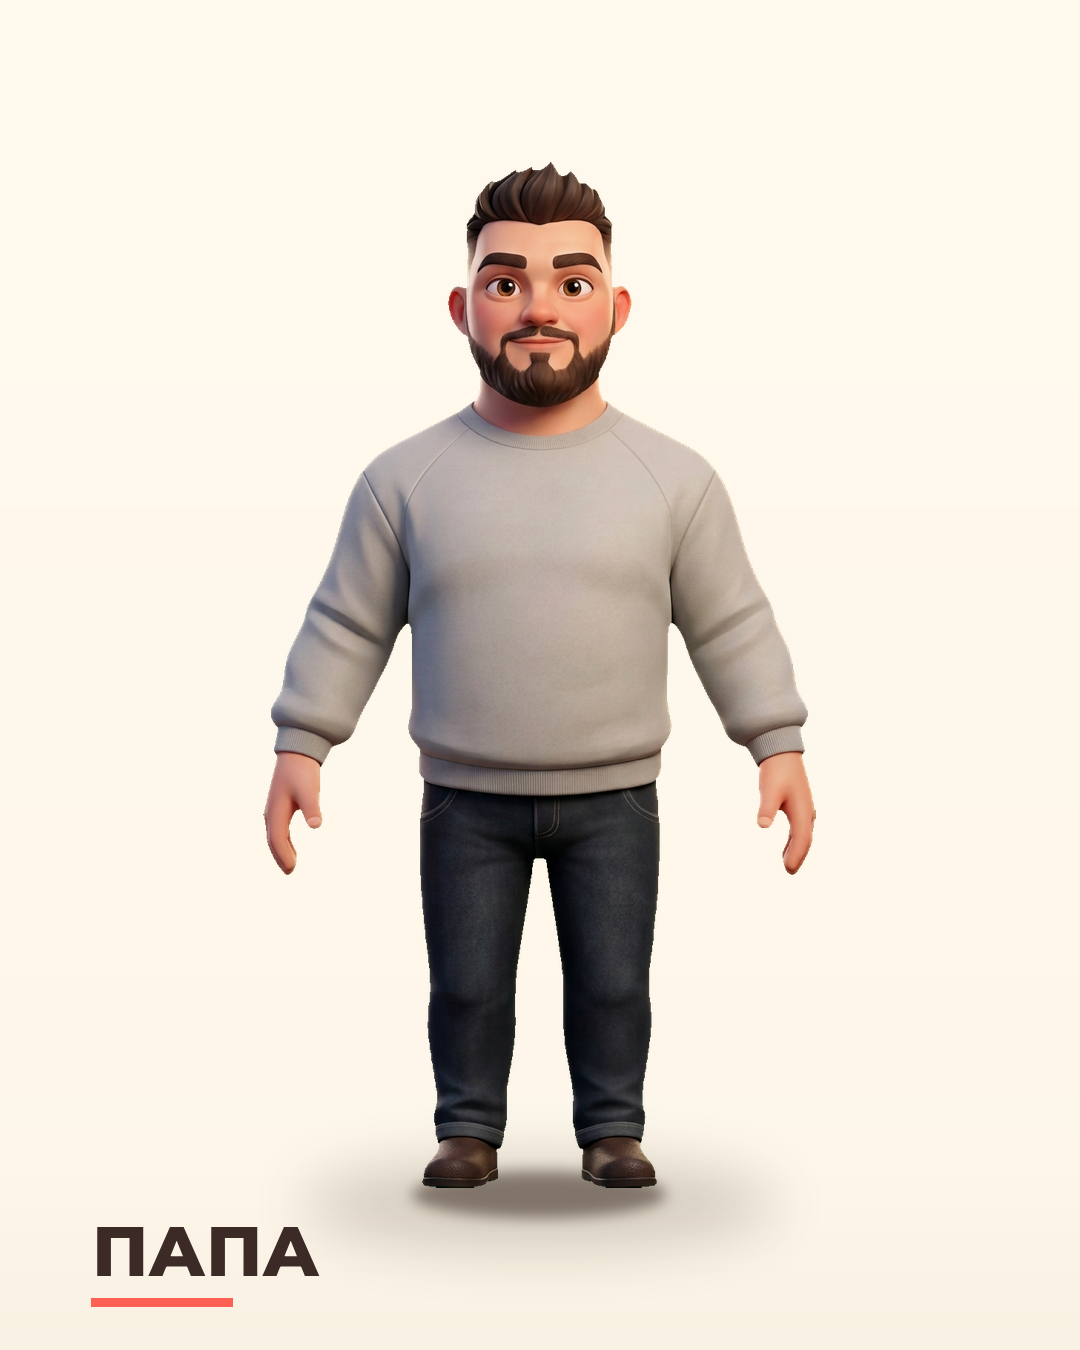
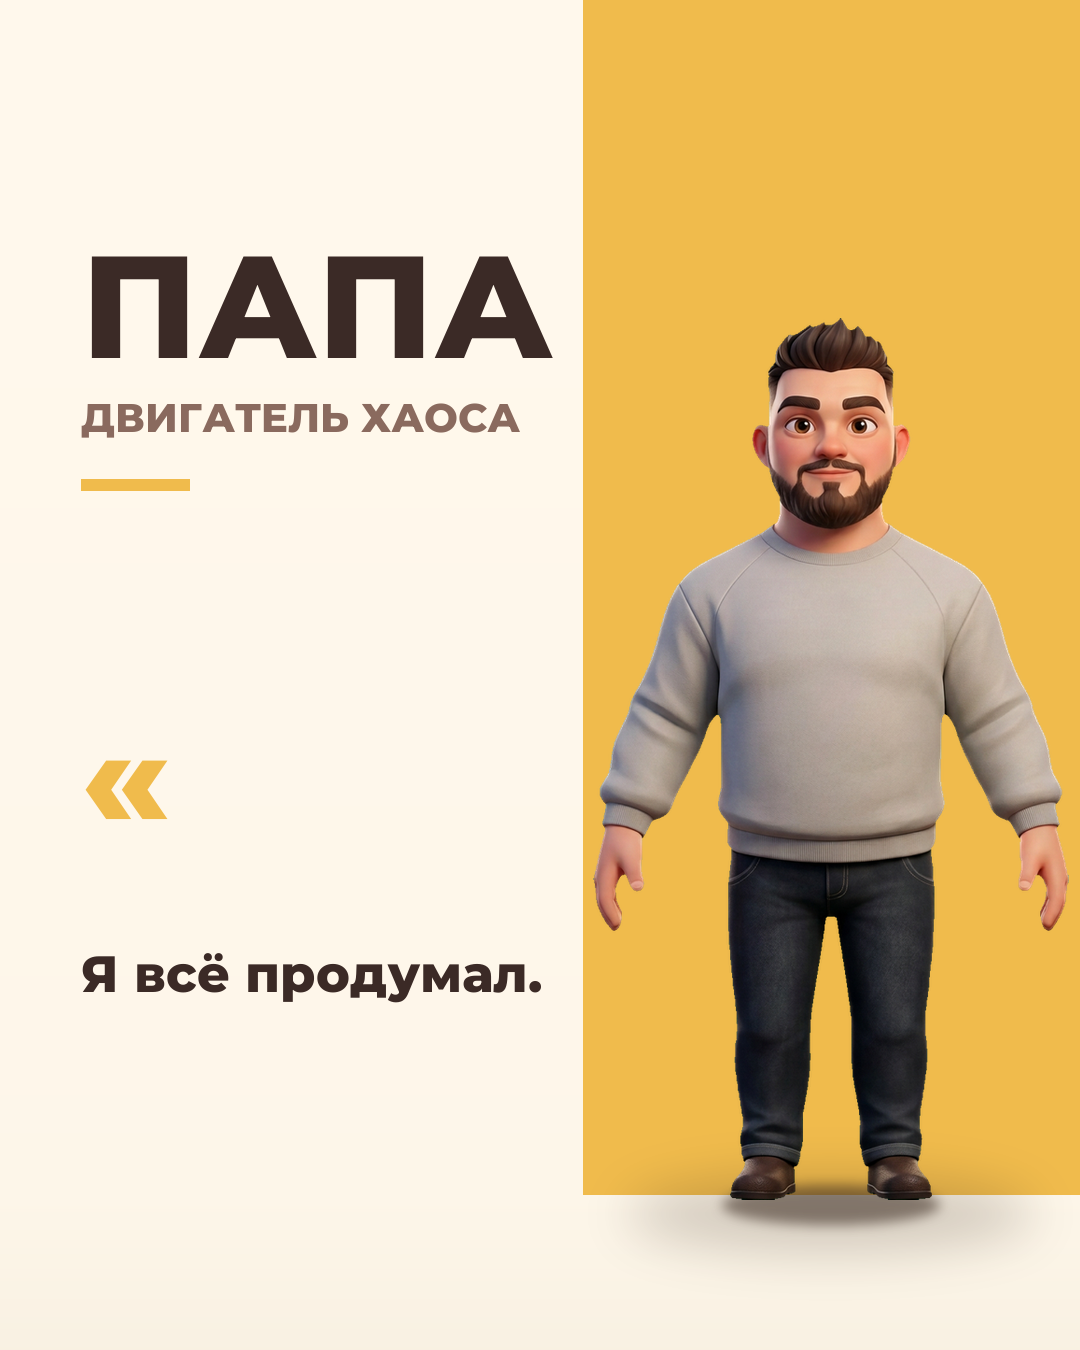
персонажи: библия и карточки представления
- docs/41-CHARACTERS-BIBLE.md: бытовая премиса, двигатель серии (папа → мама →
  сын → статус-кво), роли из канона, тики, фразы, цвета
- identity.json: series.premise/engine, у героев блок presentation
- promo_scene.py cards читает канон: стена цвета героя, пол, фигура на линии
  пола, имя, роль, фраза; правка текста в одном месте
- рабочее название «Семья»

diff --git a/studio/engine/promo_scene.py b/studio/engine/promo_scene.py
@@ -182,6 +182,30 @@ def _shadow_ellipse(plate, cx, base_y, w, h, blur, opacity, color="#3A2A20"):
                 (int(cx - mask.width / 2), int(base_y - h / 2 - pad)), mask)
 
 
+def floor_overlay(plate, floor_y, height_frac=0.14):
+    """Светлая плоскость пола поверх фона: градиент без жёсткой линии.
+
+    Рисуется уже после стены, но до героя — тогда подошвы и тень ложатся на пол,
+    а не поверх плашки цвета.
+    """
+    W, H = plate.size
+    floor_y = int(floor_y)
+    grad = Image.new("L", (1, H), 0)
+    for y in range(H):
+        if y >= floor_y:
+            t = (y - floor_y) / max(1, H - floor_y)
+            grad.putpixel((0, y), int(52 * t))
+    warm = Image.new("RGB", plate.size, "#E7DCC8")
+    return Image.composite(warm, plate, grad.resize(plate.size))
+
+
+def _scaled(key, target_h):
+    """Вырезка героя, растянутая до нужной высоты."""
+    fig = cutout(key)
+    k = target_h / fig.height
+    return fig.resize((max(1, int(fig.width * k)), max(1, int(target_h))), Image.LANCZOS)
+
+
 def contact_shadow(plate, cx, base_y, width, strength=1.0):
     """Тень контакта, два слоя.
 
@@ -312,26 +336,72 @@ def cmd_lineup(args):
     print(f"{args.out}  ({plate.width}×{plate.height})  {', '.join(cast)}")
 
 
-def cmd_cards(args):
-    """Карточки героев: фигура стоит на полу студии, подпись внизу.
+def fit_font(text, max_w, size, min_size=16):
+    """Кегль, при котором строка влезает в max_w."""
+    while size > min_size:
+        f = ImageFont.truetype(FONT, int(size))
+        if f.getlength(text) <= max_w:
+            return f
+        size -= 2
+    return ImageFont.truetype(FONT, int(min_size))
 
-    Пол обязателен: без линии горизонта и градиента фигура «летит» над бумагой,
-    даже если тень есть.
+
+def cmd_cards(args):
+    """Карточки героев: имя, роль, фраза, кадр из мастера на полу.
+
+    Данные берутся из canon/identity.json (characters[*].presentation), поэтому
+    правка текста в одном месте меняет все карточки.
     """
-    labels = {cid: ch["label"] for cid, ch in identity()["characters"].items()}
+    W, H = formats()["post-4x5"]["w"], formats()["post-4x5"]["h"]
+    characters = identity()["characters"]
     jobs = [("dad", "dad:front"), ("mom", "mom:front"), ("son", "son:front")]
     os.makedirs(OUT, exist_ok=True)
+    floor_y = H * 0.885
+
     for cid, key in jobs:
-        plate = build("post-4x5", [key], band="none", dad_frac=0.76, baseline=0.88,
-                      floor=True, floor_line=False)
+        ch = characters[cid]
+        pres = ch.get("presentation", {})
+        color = pres.get("color", "#F0BB4C")
+
+        # 1. стена цвета героя на фоне бумаги, без пола
+        panel_x = W * 0.54
+        plate = studio_background(W, H, band="none", floor=False)
+        ImageDraw.Draw(plate).rectangle([int(panel_x), 0, W, int(floor_y)], fill=color)
+
+        # 2. пол поверх стены — и только потом герой
+        plate = floor_overlay(plate, floor_y)
+
+        # 3. герой стоит на линии пола
+        fig = _scaled(key, H * 0.70)
+        max_w = (W - panel_x) * 0.96          # фигура не должна резаться краем кадра
+        if fig.width > max_w:
+            k = max_w / fig.width
+            fig = fig.resize((int(max_w), max(1, int(fig.height * k))), Image.LANCZOS)
+        base = int(floor_y + H * 0.004)
+        fx = int(panel_x + (W - panel_x) / 2 - fig.width / 2)
+        contact_shadow(plate, fx + fig.width / 2, base, fig.width)
+        plate.paste(fig, (fx, base - fig.height), fig)
         d = ImageDraw.Draw(plate)
-        name = labels[cid].upper()
-        f = ImageFont.truetype(FONT, int(plate.height * 0.052))
-        d.text((plate.width * 0.085, plate.height * 0.945), name, font=f,
-               fill=INK, anchor="ls")
-        d.rectangle([plate.width * 0.085, plate.height * 0.962,
-                     plate.width * 0.085 + plate.width * 0.13,
-                     plate.height * 0.962 + plate.height * 0.006], fill="#FF6054")
+
+        # 4. текст
+        x = int(W * 0.075)
+        name = ch["label"].upper()
+        f_name = fit_font(name, W * 0.44, H * 0.115)
+        d.text((x, H * 0.265), name, font=f_name, fill=INK, anchor="ls")
+
+        f_role = fit_font(pres.get("role_short", "").upper(), W * 0.44, H * 0.030)
+        d.text((x, H * 0.320), pres.get("role_short", "").upper(), font=f_role,
+               fill="#8A6A5E", anchor="ls")
+
+        d.rectangle([x, H * 0.355, x + W * 0.10, H * 0.355 + H * 0.008], fill=color)
+
+        quote = pres.get("quote", "")
+        if quote:
+            d.text((x, H * 0.615), "«", font=ImageFont.truetype(FONT, int(H * 0.11)),
+                   fill=color, anchor="ls")
+            f_q = fit_font(quote, W * 0.44, H * 0.056)
+            d.text((x, H * 0.735), quote, font=f_q, fill=INK, anchor="ls")
+
         out = os.path.join(OUT, f"card-{cid}.png")
         plate.save(out)
         print(f"{out}  ({plate.width}×{plate.height})  {key}")
@@ -339,22 +409,18 @@ def cmd_cards(args):
 
 def cmd_sheet(args):
     """Контакт-лист карточек героев."""
-    items = [("dad", "ПАПА"), ("mom", "МАМА"), ("son", "СЫН")]
-    H, gap, lbl, pad = 760, 26, 84, 26
+    items = ["dad", "mom", "son"]
+    H, gap = 820, 24
     tiles = []
-    for cid, name in items:
+    for cid in items:
         path = os.path.join(OUT, f"card-{cid}.png")
         if not os.path.exists(path):
             raise SystemExit(f"нет карточки: {path} — запустите `promo_scene.py cards`")
         im = Image.open(path).convert("RGB")
         w = int(im.width * H / im.height)
-        im = im.resize((w, H), Image.LANCZOS)
-        t = Image.new("RGB", (w, H + lbl), PAPER)
-        t.paste(im, (0, 0))
-        ImageDraw.Draw(t).text((16, H + 20), name, font=ImageFont.truetype(FONT, 30), fill=INK)
-        tiles.append(t)
+        tiles.append(im.resize((w, H), Image.LANCZOS))
     W = sum(t.width for t in tiles) + gap * (len(tiles) + 1)
-    sheet = Image.new("RGB", (W, H + lbl + gap * 2), INK)
+    sheet = Image.new("RGB", (W, H + gap * 2), INK)
     x = gap
     for t in tiles:
         sheet.paste(t, (x, gap))

diff --git a/docs/41-CHARACTERS-BIBLE.md b/docs/41-CHARACTERS-BIBLE.md
@@ -1,0 +1,120 @@
+# 41 · Библия персонажей: «Семья»
+
+_Рабочее название и рабочие имена. Всё здесь — предложение к утверждению, а не
+приказ. Правится в одном месте: `studio/promo/canon/identity.json`._
+
+## Формат
+
+Бытовая семейная комедия. Обычная семья, обычная квартира, обычные дела.
+Никаких переездов, коробок и «сюжета ради сюжета» — берём то, что бывает у всех.
+
+**Двигатель серии:**
+
+```
+папа берётся за бытовое дело  →  мама предупреждает  →  сын комментирует
+                →  всё возвращается в исходное состояние
+```
+
+Статус-кво восстанавливается к концу каждой серии — как у «Симпсонов» и
+«Гриффинов». Из этого следует главное правило: **сериал можно смотреть с любой
+серии**. Никаких «продолжение в следующей».
+
+**Откуда берутся серии:** одно обычное дело. Розетка, шкаф, посудомойка,
+доставка, школа, сосед, ремонт, очередь, гаджет, отпуск. Одна серия — одно дело,
+одна шутка в основе.
+
+## Треугольник
+
+Все шутки держатся на трёх позициях, и они не меняются:
+
+| Позиция | Кто | Что делает | Что говорит |
+|---------|-----|------------|-------------|
+| Инициатива | папа | берётся за дело сам | «Я всё продумал.» |
+| Проверка | мама | задаёт один вопрос | «Ты серьёзно?» |
+| Комментарий | сын | отвечает одним словом | «Понятно.» |
+
+Папа не дурак, мама не зануда, сын не милашка. Папа оптимист, который
+действительно верит, что справится. Мама права, и ей от этого не легче. Сын
+видит всё и не считает нужным вмешиваться.
+
+---
+
+## Папа
+
+- **Роль:** отец, двигатель хаоса.
+- **Рост:** 5,9 головы, широкий, короткие ноги — он физически «не проходит» в
+  узкие места, и это работает как гэг без слов.
+- **Хочет:** чтобы всё работало по его плану.
+- **Мешает:** реальность, у которой свой план.
+- **Тик:** берётся за дело со словами «я всё продумал».
+- **Фраза:** «Я всё продумал.»
+- **Плохой день:** всё почти получилось.
+- **Цвет героя:** горчица `#F0BB4C`.
+- **Позы канона:** руки на поясе; палец вверх; ладонь у лица; пожимает плечами.
+
+## Мама
+
+- **Роль:** единственный взрослый в комнате.
+- **Рост:** 5,7 головы, узкие плечи, ровная стойка — контраст с папой в каждом
+  групповом кадре.
+- **Хочет:** спокойный вечер без приключений.
+- **Мешает:** папа с очередной идеей.
+- **Тик:** задаёт один вопрос, после которого план рассыпается.
+- **Фраза:** «Ты серьёзно?»
+- **Плохой день:** она была права.
+- **Цвет героя:** коралл `#FF6054`.
+- **Позы канона:** руки скрещены, бровь вверх; ладонь к виску; глаза закрыты.
+
+## Сын
+
+- **Роль:** самый умный в комнате.
+- **Рост:** 4,4 головы — ниже папы на четверть, и в кадре это всегда смешно.
+- **Хочет:** чтобы его не трогали.
+- **Мешает:** родители, которым он нужен как свидетель.
+- **Тик:** отвечает одним словом и уходит.
+- **Фраза:** «Понятно.»
+- **Плохой день:** он всё видел.
+- **Цвет героя:** шалфей `#8AA88A`.
+- **Позы канона:** палец в камеру; руки в бока; задумчивый подбородок.
+
+---
+
+## Чего не делаем
+
+- Не строим шутку на переезде и коробках — премиса другая.
+- Не придумываем героям биографию (профессия, возраст, прошлое) без утверждения:
+  в кадре и в текстах работают только роль, тик и фраза.
+- Не вводим фантастику, мистику и «мир недели» до отдельного решения. Сейчас
+  сериал бытовой; если решим добавить прибор или загадку — это будет отдельный
+  документ и отдельный слой, а не тихая правка.
+- Не меняем лица, пропорции и одежду промптом: только новым мастером.
+
+## Как героя показываем обществу
+
+Порядок: папа → мама → сын → все вместе. По одному, чтобы у каждого был свой
+пост и свой цвет.
+
+Карточка героя — четыре элемента, ни одного лишнего:
+
+1. **Имя** — крупно.
+2. **Роль** — одна строка, без биографии.
+3. **Фраза** — та, по которой его узнают.
+4. **Кадр из мастера** — в полный рост, стоит на полу, тень под стопами,
+   на цветной панели своего цвета.
+
+Собирается командой:
+
+```bash
+.venv/bin/python studio/engine/promo_scene.py cards     # card-dad / card-mom / card-son
+.venv/bin/python studio/engine/promo_scene.py sheet     # contact-лист
+```
+
+Дальше — логотип и дизайн-код (этап 3 в `docs/40-CHARACTERS.md`), и только потом
+календарь постов.
+
+## Открытые вопросы
+
+1. Финальное название (сейчас рабочее «Семья»).
+2. Утвердить роли, тики и фразы или заменить.
+3. Утвердить цвета героев.
+4. Нужны ли серии про работу и школу, или держимся только квартиры.

diff --git a/README.md b/README.md
@@ -155,7 +155,8 @@ python3 -m venv .venv
 
 | Что | Где |
 |-----|-----|
-| Библия персонажей: кто они и как их показывать | [`docs/40-CHARACTERS.md`](docs/40-CHARACTERS.md) |
+| Персонажи: канон, решения, этапы | [`docs/40-CHARACTERS.md`](docs/40-CHARACTERS.md) |
+| Библия персонажей: роли, тики, фразы, цвета | [`docs/41-CHARACTERS-BIBLE.md`](docs/41-CHARACTERS-BIBLE.md) |
 | Арт-дирекшн: слои, safe-зоны, типографика | [`docs/33-PROMO-ART.md`](docs/33-PROMO-ART.md) |
 | Замок идентичности: почему героя не генерируем | [`docs/34-IDENTITY-LOCK.md`](docs/34-IDENTITY-LOCK.md) |
 
@@ -222,6 +223,7 @@ python3 -m venv .venv
 | [`docs/14-ASSET-PIPELINE.md`](docs/14-ASSET-PIPELINE.md) | Заготовки: мастера, реестр, команды, добавление героя |
 | [`docs/15-REPO-MIGRATION.md`](docs/15-REPO-MIGRATION.md) | Переезд в репозиторий `family_studio` |
 | [`docs/40-CHARACTERS.md`](docs/40-CHARACTERS.md) | Персонажи: канон, роли, что решаем до промо |
+| [`docs/41-CHARACTERS-BIBLE.md`](docs/41-CHARACTERS-BIBLE.md) | Библия персонажей: двигатель серии, тики, фразы, цвета |
 | [`docs/33-PROMO-ART.md`](docs/33-PROMO-ART.md) | Арт-дирекшн промо: слои, форматы, типографика, приёмка |
 | [`docs/34-IDENTITY-LOCK.md`](docs/34-IDENTITY-LOCK.md) | Замок идентичности: как не потерять лицо и пропорции |
 

diff --git a/docs/26-LOG.md b/docs/26-LOG.md
@@ -514,3 +514,16 @@
   честно отказываются работать без кампании.
 - Добавлен `docs/40-CHARACTERS.md`: канон героев, открытые решения (название,
   премиса, визуальный стиль A/B/C, роли, дизайн-код) и порядок этапов.
+
+### Сессия 24. Решения и библия персонажей
+
+- Решения заказчика: стиль — **A** (мастера остаются 3D, «свой стиль» делаем
+  упаковкой: логотип, палитра, типографика, юмор, структура); премиса — **быт**;
+  название — рабочее **«Семья»**.
+- `docs/41-CHARACTERS-BIBLE.md`: двигатель серии (папа берётся → мама
+  предупреждает → сын комментирует → статус-кво), роли из канона, тики, фразы,
+  цвета героев. Ничего про переезд и коробки.
+- Канон расширен: `identity.json` → `series.premise`, `engine`, у каждого героя
+  `presentation` (роль, хочет/мешает, тик, фраза, цвет).
+- `promo_scene.py cards` теперь рисует карточку из канона: стена цвета героя,
+  пол, фигура на линии пола, имя, роль, фраза. Правка текста — в `identity.json`.

diff --git a/studio/promo/README.md b/studio/promo/README.md
@@ -84,7 +84,8 @@ python3 -m venv .venv
 Подробно: [`docs/34-IDENTITY-LOCK.md`](../../docs/34-IDENTITY-LOCK.md),
 [`docs/33-PROMO-ART.md`](../../docs/33-PROMO-ART.md),
 [`docs/34-IDENTITY-LOCK.md`](../../docs/34-IDENTITY-LOCK.md),
-[`docs/40-CHARACTERS.md`](../../docs/40-CHARACTERS.md).
+[`docs/40-CHARACTERS.md`](../../docs/40-CHARACTERS.md),
+[`docs/41-CHARACTERS-BIBLE.md`](../../docs/41-CHARACTERS-BIBLE.md).
 
 ## Плакаты прогрева
 
